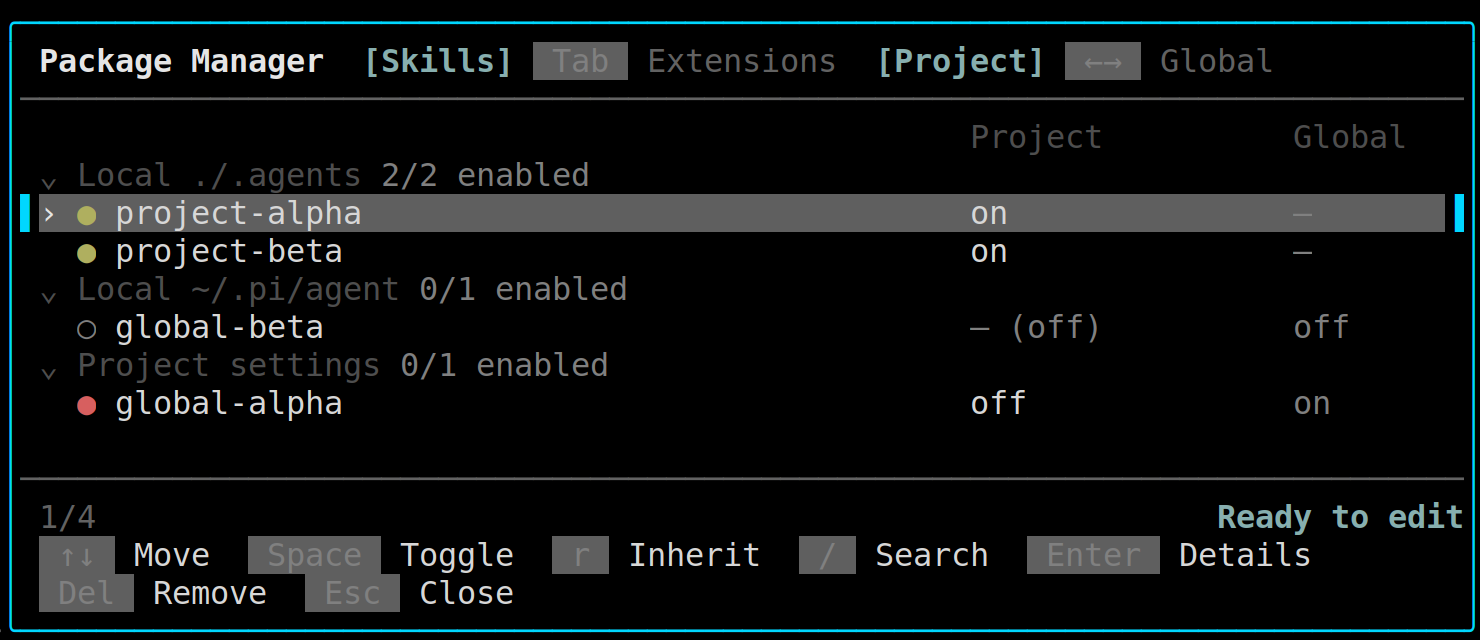
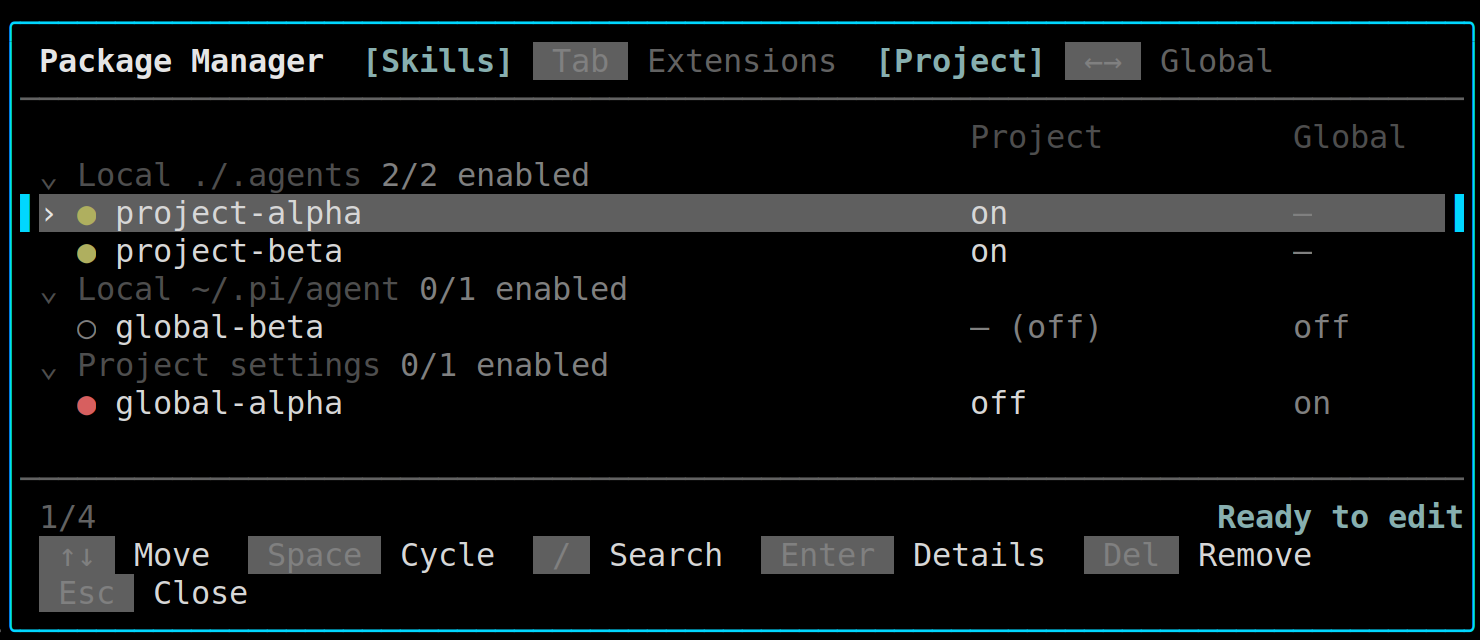
Cycle Project state with Space and drop the inherit key
- Space cycles inherit -> on -> off for inherited resources
- Space cycles on and off for project-owned resources
- Remove the r key and the Inherit toolbar action
- Refresh requirements, README, and the screenshot

Changed region(s): [[0.0311, 0.8125, 0.9014, 0.9688]]

diff --git a/src/model.ts b/src/model.ts
@@ -154,12 +154,29 @@ export class PackageManagerModel {
 		}
 
 		const beforeOverride = this.originalOverride(resource);
+		if (resource.inheritedGlobal) {
+			// Inherited resources cycle through inherit -> load -> unload -> inherit.
+			const current = this.currentOverride(resource);
+			const afterOverride: OverrideState = current === "inherit" ? "load" : current === "load" ? "unload" : "inherit";
+			if (afterOverride === beforeOverride) this.pending.delete(key);
+			else {
+				this.pending.set(key, {
+					key,
+					resource,
+					scope: "project",
+					beforeEnabled: resource.enabled,
+					beforeOverride,
+					afterEnabled: afterOverride === "inherit" ? this.globalEnabled(resource) : afterOverride === "load",
+					afterOverride,
+				});
+			}
+			return true;
+		}
+
+		// A project-owned resource has no global state to inherit, so it cycles
+		// between its two resolved states.
 		const afterEnabled = !this.effectiveEnabled(resource);
-		const afterOverride: OverrideState = afterEnabled ? "load" : "unload";
-		// A project-owned resource has no global state to inherit. Toggling it
-		// back to its resolved state should remove the pending edit.
-		if (!resource.inheritedGlobal && afterEnabled === resource.enabled) this.pending.delete(key);
-		else if (resource.inheritedGlobal && afterOverride === beforeOverride) this.pending.delete(key);
+		if (afterEnabled === resource.enabled) this.pending.delete(key);
 		else {
 			this.pending.set(key, {
 				key,
@@ -168,33 +185,7 @@ export class PackageManagerModel {
 				beforeEnabled: resource.enabled,
 				beforeOverride,
 				afterEnabled,
-				afterOverride,
-			});
-		}
-		return true;
-	}
-
-	reset(resource = this.selectedResource()): boolean {
-		if (
-			!resource ||
-			this.scope !== "project" ||
-			!resource.inheritedGlobal ||
-			resource.selfProtected ||
-			!this.projectTrusted
-		)
-			return false;
-		const key = pendingKey(resource, "project");
-		const beforeOverride = this.originalOverride(resource);
-		if (beforeOverride === "inherit") this.pending.delete(key);
-		else {
-			this.pending.set(key, {
-				key,
-				resource,
-				scope: "project",
-				beforeEnabled: resource.enabled,
-				beforeOverride,
-				afterEnabled: resource.inheritedGlobal ? this.globalEnabled(resource) : resource.enabled,
-				afterOverride: "inherit",
+				afterOverride: afterEnabled ? "load" : "unload",
 			});
 		}
 		return true;

diff --git a/test/model.test.ts b/test/model.test.ts
@@ -72,18 +72,22 @@ test("project effective state respects non-exact project filters", () => {
 	assert.equal(state.effectiveEnabled(filtered), true);
 });
 
-test("project Space changes effective state and r restores inherit", () => {
+test("project Space cycles inherit, load, and unload", () => {
 	const state = model([item("/home/u/.agents/skills/a/SKILL.md")]);
 	const selected = state.selectedResource()!;
+	assert.equal(state.currentOverride(selected), "inherit");
+	state.toggle();
+	assert.equal(state.currentOverride(selected), "load");
+	assert.equal(state.effectiveEnabled(selected), true);
 	state.toggle();
 	assert.equal(state.currentOverride(selected), "unload");
 	assert.equal(state.effectiveEnabled(selected), false);
-	state.reset();
+	state.toggle();
 	assert.equal(state.currentOverride(selected), "inherit");
 	assert.equal(state.pending.size, 0);
 });
 
-test("project-owned resources toggle independently and do not expose inherit reset", () => {
+test("project-owned resources cycle between on and off", () => {
 	const local = item("/repo/.agents/skills/local/SKILL.md", {
 		metadata: { source: "auto", scope: "project", origin: "top-level", baseDir: "/repo/.agents" },
 		inheritedGlobal: false,
@@ -93,7 +97,6 @@ test("project-owned resources toggle independently and do not expose inherit res
 	assert.equal(state.toggle(), true);
 	assert.equal(state.effectiveEnabled(local), false);
 	assert.equal(state.pending.size, 1);
-	assert.equal(state.reset(), false);
 	state.toggle();
 	assert.equal(state.effectiveEnabled(local), true);
 	assert.equal(state.pending.size, 0);

diff --git a/test/integration.test.ts b/test/integration.test.ts
@@ -43,7 +43,8 @@ test("disabling the last positive package include does not enable a sibling", as
 	}
 });
 
-test("global disable and project enable/reset round-trip through Pi resolution", async () => {	const root = mkdtempSync(join(tmpdir(), "pi-pkg-integration-"));
+test("global disable and project enable/reset round-trip through Pi resolution", async () => {
+	const root = mkdtempSync(join(tmpdir(), "pi-pkg-integration-"));
 	try {
 		const agentDir = join(root, "agent");
 		const cwd = join(root, "repo");
@@ -79,7 +80,8 @@ test("global disable and project enable/reset round-trip through Pi resolution",
 		assert.equal(catalog.project.find((resource) => resource.path === skillPath)?.enabled, true);
 		model = new PackageManagerModel(catalog, cwd, agentDir, true);
 		const overridden = model.resources().find((resource) => resource.path === skillPath)!;
-		assert.equal(model.reset(overridden), true);
+		model.toggle(overridden); // load -> unload
+		model.toggle(overridden); // unload -> inherit
 		preview = backend.prepareSave(model.pendingChanges());
 		result = await backend.commitSave(model.pendingChanges(), preview);
 		assert.deepEqual(result.savedScopes, ["project"]);

diff --git a/src/ui.ts b/src/ui.ts
@@ -121,8 +121,6 @@ export class PackageManagerComponent implements Focusable {
 			this.model.move(8);
 		} else if (matchesKey(data, Key.space)) {
 			this.model.toggle();
-		} else if (data === "r") {
-			this.model.reset();
 		} else if (this.keybindings.matches(data, "tui.select.confirm") || matchesKey(data, Key.enter)) {
 			if (this.model.selectedResource()) this.details = true;
 		} else if (matchesKey(data, Key.delete)) {
@@ -406,8 +404,10 @@ export class PackageManagerComponent implements Focusable {
 				...this.actionLines([this.action("Delete", "Backspace"), this.action("Clear", "Esc")], inner),
 			];
 		}
-		const actions = [this.action("Move", "↑↓"), this.action("Toggle", "Space")];
-		if (this.model.scope === "project") actions.push(this.action("Inherit", "r"));
+		const actions = [
+			this.action("Move", "↑↓"),
+			this.action(this.model.scope === "project" ? "Cycle" : "Toggle", "Space"),
+		];
 		actions.push(this.action("Search", "/"), this.action("Details", "Enter"), this.action("Remove", "Del"), this.action("Close", "Esc"));
 		return [this.statusLine(inner), ...this.actionLines(actions, inner)];
 	}

diff --git a/test/ui.test.ts b/test/ui.test.ts
@@ -73,6 +73,8 @@ test("Project rows render aligned Project and Global state columns", () => {
 	assert.match(output, /— \(on\)/);
 	assert.match(output, /⌄ A very long global source label/);
 	assert.match(output, /▌.*a-very-long-resource-name.*▐/);
+	assert.match(output, /Space  Cycle/);
+	assert.doesNotMatch(output, /Inherit/);
 });
 
 test("Global rows show Global state and omit the inherit action", () => {
@@ -81,6 +83,7 @@ test("Global rows show Global state and omit the inherit action", () => {
 	const component = new PackageManagerComponent(state, theme, keybindings, () => {}, () => {}, 3);
 	const output = component.render(120).join("\n");
 	assert.match(output, /Global/);
+	assert.match(output, /Space  Toggle/);
 	assert.doesNotMatch(output, /Inherit/);
 });
 

diff --git a/docs/requirements.md b/docs/requirements.md
@@ -79,7 +79,7 @@ pi 本身能识别 `~/.agents/skills`、项目 `.agents/skills`（向上到 git 
   - 全局资源默认 inherit，Project 中切换时创建项目级覆盖；
   - Project 覆盖 Global，双向（global 开→项目关；global 关→项目开）。
 - 项目覆盖为三态：inherit / load / unload（见 3.3）。
-- Project 视图中 `Space` 切换项目实际状态；对全局继承资源，`r` 删除项目覆盖并恢复 `inherit`，不使用循环三态操作。
+- Project 视图中 `Space` 在 `inherit` → `on` → `off` → `inherit` 之间循环；项目自有资源在 `on` / `off` 之间循环。
 - 项目自有资源没有 Global 可继承，只做独立 on/off；同一次编辑中切回原始状态会自动取消该未保存修改。
 - 包移除不记录历史；"disabled" 与"removed"不进入同一个状态模型。
 
@@ -95,14 +95,14 @@ pi 本身能识别 `~/.agents/skills`、项目 `.agents/skills`（向上到 git 
 - 列表行显示名称、状态、对齐的 Project / Global 状态列与简短来源；当前项使用紧凑单行 `selectedBg`、accent 左右边缘和 `›` 指针；`Enter` 打开资源详情卡，展示完整路径、package、覆盖关系和诊断；详情页 `Enter` 与 `Esc` 返回列表。
 - 标题栏使用 `Package Manager   [Skills] Tab Extensions   [Project] ←→ Global` 的文本结构；当前选择使用 accent，`Tab` 与 `←→` 使用 dim 小按键标签；`Tab` 切换 Skills/Extensions，`←/→` 切换 Project/Global。
 - `Project` 视图显示对齐的 `Project` 与 `Global` 状态列；标题栏高亮 Project，`Space` 修改 Project 状态。`Global` 视图只显示 Global 相关信息，标题栏高亮 Global，`Space` 修改 Global 状态；Global 状态列保持与 Project 视图相同的最右侧列位。内部宽度低于 64 列时，标题栏与状态列表使用 `P` / `G` 缩写。
-- 底部使用两层信息栏：状态行左侧显示当前位置 `6/24`，右侧显示编辑状态；工具栏使用按键标签展示资源操作，`Tab` 与 `←→` 仅在标题栏展示；Project 工具栏包含 `[r] Inherit`，Global 工具栏省略该操作；窄终端将工具栏自动换成两行并保留全部操作。
+- 底部使用两层信息栏：状态行左侧显示当前位置 `6/24`，右侧显示编辑状态；工具栏使用按键标签展示资源操作，`Tab` 与 `←→` 仅在标题栏展示；Project 工具栏显示 `[Space] Cycle`，Global 工具栏显示 `[Space] Toggle`；窄终端将工具栏自动换成两行并保留全部操作。
 - 切换视图时保留每个视图的搜索词、滚动位置与 pending 修改。
 - `Global` 视图编辑并展示全局资源与 Global 状态。
 - `Project` 视图编辑当前项目设置，同时显示 Project 与 Global 状态列；项目资源排在前，全局资源默认 inherited，直接编辑时写入项目覆盖。
 - 列表按来源分组（每个包一组、每个本地目录一组），来源是辅助信息；不再额外增加 Package 顶层视图。
 - 每个本地目录与包来源使用同一种固定展开来源分组；标题以静态 `⌄` 开头，显示缩短来源路径，后面紧跟一个空格与 `N/M enabled` 统计，具体 resource 行相对标题缩进一层并承载全部操作；Project 视图统计 Project 生效状态，Global 视图统计 Global 状态，Extensions 视图省略统计；项目内资源使用相对当前目录的 `./` 路径，全局资源使用 `~` 路径，长路径使用中间省略号，详情页显示完整路径与完整 package source。
 - `/` 进入本地搜索模式，只过滤当前 Tab 中 pi 已检测到的资源，绝不联网；标题栏下方显示 `⌕ Search: <query>` 紧凑输入栏，查询文本使用 accent；列表只展示含匹配资源的来源容器；搜索模式下所有字符仅作为查询文本，`Esc` 清空并退出搜索。
-- 普通列表模式下 `r` 只对全局继承资源恢复 inherit；搜索模式中的 `r` 只是查询字符。
+- 列表模式下的 `Space` 只作用于列表，搜索模式中的 `Space` 是查询字符。
 - 一个同时提供 extension 和 skill 的包会分别出现在两个 Tab。
 - Project 视图只能移除项目包；全局包在 Project 视图中只能设置/清除项目覆盖，必须切换到 Global 才能卸载。
 - 卸载属于即时包操作，不进入 toggle 的 pending state；执行前必须确认。

diff --git a/README.md b/README.md
@@ -27,6 +27,7 @@
 - **Control individual resources** — enable or disable each detected Skill and Extension.
 - **Read both scopes at once** — the Project view shows aligned `Project` and `Global` columns for every resource.
 - **Track inherited state** — `— (on)` and `— (off)` follow Global; `on` and `off` mark an explicit Project choice.
+- **Cycle Project state** — `Space` moves through inherit, on, and off on a single key.
 - **Review staged changes** — `Ctrl+S` reviews and saves the transaction; `Esc` discards it.
 - **Inspect Pi's resolution** — search locally and open details for paths, sources, overrides, and diagnostics.
 - **Remove installed packages** — review every affected resource before confirming removal from the active scope.
@@ -71,7 +72,7 @@ Start a new Pi session and run one of the manager commands:
 | `Tab` | Switch Skills / Extensions |
 | `←` / `→` | Switch Project / Global |
 | `↑` / `↓` | Navigate resources |
-| `Space` | Stage a state change |
+| `Space` | Cycle inherit / on / off (Project) or toggle (Global) |
 | `r` | Restore inherit for a Global resource (Project view) |
 | `/` | Search resolved resources locally |
 | `Enter` | Open resource details |
@@ -96,7 +97,7 @@ Each row leads with its state:
 | **Project** | Project resources followed by inherited Global resources | `Project` and `Global` | Current project settings and overrides |
 | **Global** | Resources resolved from the global Pi environment | `Global` | Global Pi settings |
 
-The Project view keeps both columns aligned, so every row compares the Project result against its Global baseline. An inherited resource shows `— (on)` or `— (off)` and follows Global; an explicit Project choice shows `on` or `off`. Press `r` to restore inherit. Project-only resources show `—` in the Global column.
+The Project view keeps both columns aligned, so every row compares the Project result against its Global baseline. An inherited resource shows `— (on)` or `— (off)` and follows Global; an explicit Project choice shows `on` or `off`. `Space` cycles inherit → on → off and returns to inherit. Project-only resources show `—` in the Global column.
 
 The Global view shows the single `Global` column and edits it directly.
 
